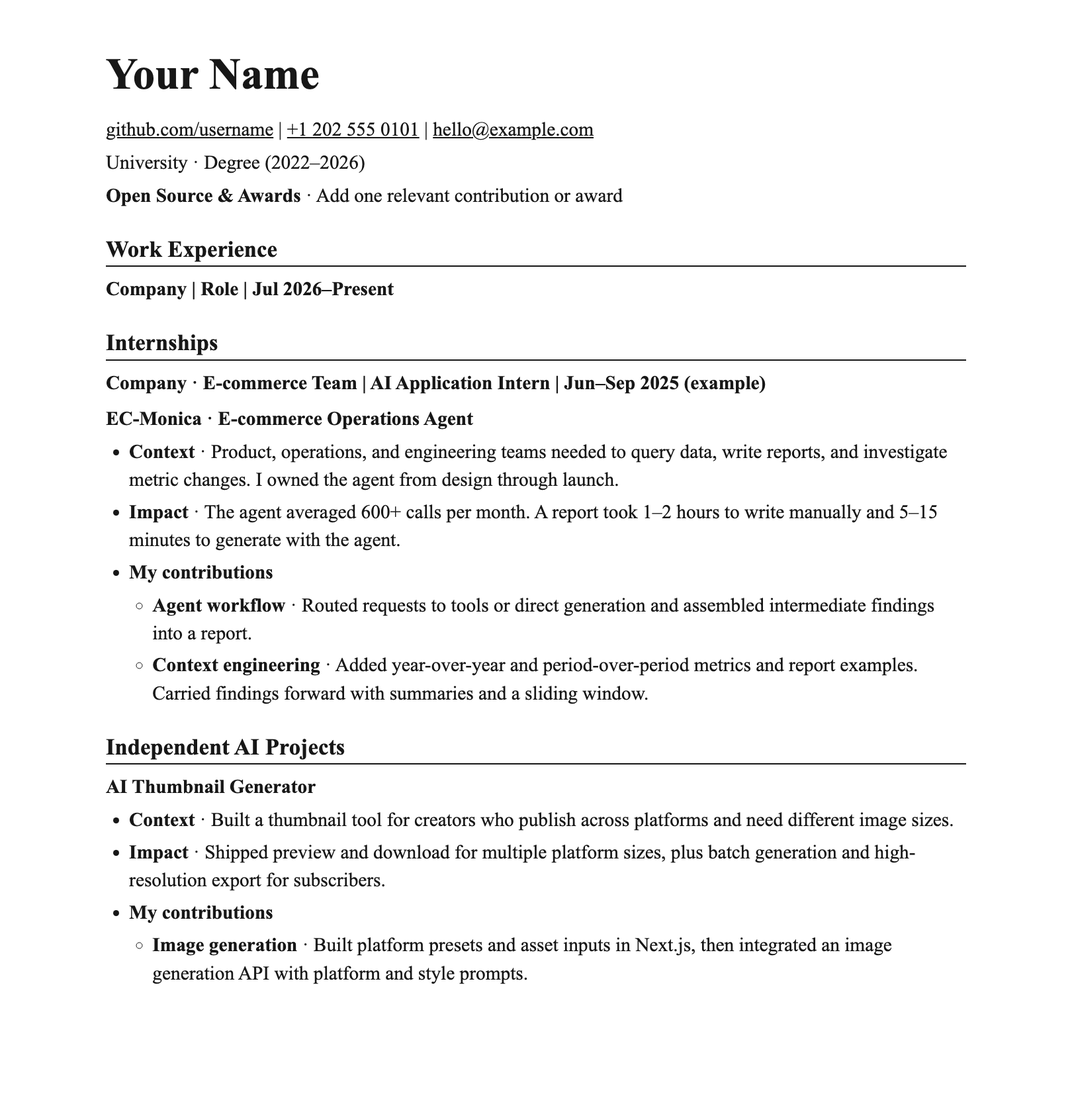
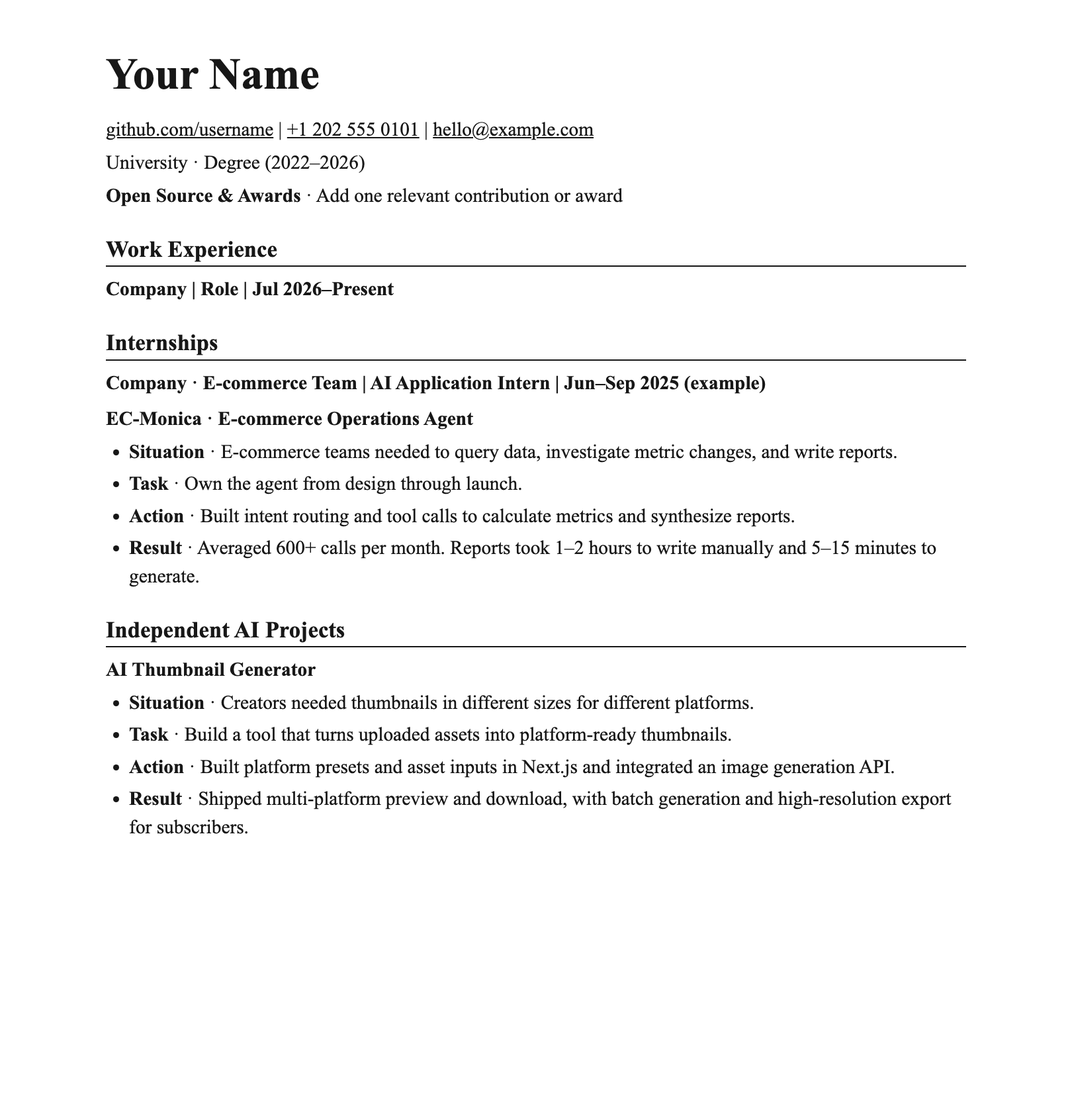
Require four separate STAR lines for every resume project

Changed region(s): [[0.0926, 0.4024, 0.8951, 0.8976]]

diff --git a/skills/resume-engineering/templates/resume.tex b/skills/resume-engineering/templates/resume.tex
@@ -21,17 +21,29 @@
 \textbf{公司 · 岗位} \hfill YYYY.MM--至今\par
 \textbf{项目名称 · 项目角色}
 \begin{itemize}
-  \item \textbf{背景}：服务对象、业务问题与目标。
-  \item \textbf{指标与效果}：写已验证的交付、采用或结果，说明统计口径。
-  \item \textbf{我的职责}：说明本人承担的交付范围，用关键机制与结果支撑。
+  \item \textbf{情境}：服务对象遇到了什么问题。
+  \item \textbf{任务}：项目目标与本人负责的交付。
+  \item \textbf{行动}：本人做了什么，用了什么方法。
+  \item \textbf{结果}：已验证的交付、采纳或指标。
 \end{itemize}
 
 \section*{实习经历}
 \textbf{公司 · 岗位} \hfill YYYY.MM--YYYY.MM\par
-用简短要点写相关项目与个人贡献。
+\textbf{项目名称}
+\begin{itemize}
+  \item \textbf{情境}：服务对象遇到了什么问题。
+  \item \textbf{任务}：项目目标与本人负责的交付。
+  \item \textbf{行动}：本人做了什么，用了什么方法。
+  \item \textbf{结果}：已验证的交付、采纳或指标。
+\end{itemize}
 
 \section*{AI 创业／独立项目}
-\textbf{项目名称 · 项目角色} \hfill YYYY.MM--YYYY.MM\par
-写清面向的用户、已完成的功能和实际效果。
+\textbf{项目名称 · 项目角色} \hfill YYYY.MM--YYYY.MM
+\begin{itemize}
+  \item \textbf{情境}：服务对象遇到了什么问题。
+  \item \textbf{任务}：项目目标与本人负责的交付。
+  \item \textbf{行动}：本人做了什么，用了什么方法。
+  \item \textbf{结果}：已验证的交付、采纳或指标。
+\end{itemize}
 
 \end{document}

diff --git a/skills/resume-engineering/references/workflow.en.md b/skills/resume-engineering/references/workflow.en.md
@@ -1,44 +1,23 @@
 # STAR workflow for AI resumes
 
-Apply STAR to every project, including work, internships, open-source contributions, and independent projects. The final resume can combine the four elements into short bullets.
+Apply STAR to every project, including work, internships, open-source contributions, and independent projects. Use four separate labeled bullets per project, in STAR order.
 
 1. Extract **Situation** (users, problem, constraints), **Task** (goal and personal ownership), **Action** (decisions, mechanisms, and tradeoffs), and **Result** (verified outcome, scope, and attribution). Use the supplied material as the source of truth. If the user supplies only a job description, ask up to three focused questions to gather relevant STAR material.
 2. Choose and order projects by the work the target role actually does. Research and training may emphasize baselines and ablations. Application and platform roles may emphasize workflows, reliability, latency, or cost. Data, safety, and evaluation may emphasize dataset coverage, scoring criteria, and verified findings. Product, design, governance, and customer-facing roles may emphasize user research, acceptance criteria, adoption, or completed remediation.
-3. Draft **Context and goal**, then **My contributions**. Start each contribution with a short heading and describe one decision or delivery. Explain the mechanism or workflow when it clarifies the contribution. Use ownership verbs that reflect the candidate's actual responsibility. For a short resume, combine context, action, and result in a single bullet.
+3. Draft four separate lines labeled **Situation**, **Task**, **Action**, and **Result**. Use the action line to explain the candidate’s most important decision or contribution. Shorten individual lines for a one-page resume.
 4. Keep metrics tied to the known baseline, unit, measurement window, and environment. Distinguish offline evaluation, pilot outcomes, and production results. Attribute team results explicitly. Use qualitative evidence when a number is unavailable, and use causal wording only when the evidence supports it.
 5. Deliver the copy-ready text first. Keep unresolved facts outside the resume and mention up to three only when they affect the wording. Remove confidential details from public-facing drafts.
 
-## AI Thumbnail Generator
-
-- **Situation** — Creators publishing across multiple platforms needed thumbnails in different sizes.
-- **Task** — Build a tool that takes creator assets and a platform choice through to preview and download.
-- **Action** — Build platform presets and subject and style-reference inputs in Next.js. Turn platform context and style keywords into prompts and integrate an image generation API.
-- **Result** — The tool supports thumbnail generation and download in multiple platform sizes. Subscribers can generate in batches and export high-resolution images.
-
-**AI Thumbnail Generator**
-
-- **Context and goal** — Built a thumbnail generation workflow for creators publishing across multiple platforms, from selecting a platform size and submitting assets to generating a cover.
-- **My contributions · Image generation** — Implemented platform presets, subject uploads, and style-reference inputs in Next.js. Combined platform context and style keywords into prompts and integrated an image generation API for previewing and downloading thumbnails in multiple sizes.
-- **My contributions · Subscription features** — Built a free usage allowance and a paid subscription flow with batch generation and high-resolution export.
-
-The source describes shipped capabilities and provides no measured change in click-through rate.
-
 ## EC-Monica · E-commerce Operations Agent
 
-### STAR notes
+- **Situation** — E-commerce product, operations, and engineering teams needed to query business data, investigate metric changes, and prepare reports.
+- **Task** — Own the agent from design through launch and support data analysis, reporting, attribution, and requirements interpretation.
+- **Action** — Built intent routing and tool execution for data queries, year-over-year and period-over-period calculations, and iterative report synthesis. Added retry and fallback handling, report examples, and context summaries.
+- **Result** — Averaged 600+ calls per month after launch. About 55% were reporting tasks and 45% were requirements or attribution tasks. One report took 1–2 hours to write manually and 5–15 minutes to generate with the agent.
 
-- **Situation** — E-commerce product, operations, and engineering teams needed to interpret experiments and dashboards, write reports, investigate metric changes, and analyze requirements.
-- **Task** — Own EC-Monica from initial design through launch.
-- **Action** — Route requests by intent, register tools through configuration, calculate year-over-year and period-over-period metrics in Python, and synthesize intermediate findings into reports. Add tool failure handling and use examples, summaries, and a sliding window to guide multi-turn analysis.
-- **Result** — The resume records 600+ calls per month on average. About 55% were reporting tasks and 45% were requirements or attribution tasks. A single report took 1–2 hours to write manually and 5–15 minutes to generate with the agent. The source does not specify the observation period or sample size.
+## AI Thumbnail Generator
 
-### Resume-ready entry
-
-**EC-Monica · E-commerce Operations Agent**
-
-- **Business context** — Built an agent for e-commerce product, operations, and engineering teams to analyze A/B experiments and dashboards, produce reports, investigate metric changes, and interpret requirements.
-- **Adoption and impact** — Averaged 600+ calls per month after launch. About 55% were reporting tasks and 45% were requirements or attribution tasks. A single report took 1–2 hours to write manually and 5–15 minutes to generate with the agent.
-- **My contributions** — Owned the project from design through launch.
-  - **Agentic workflow** — Routed requests by intent to tool calls or direct generation. Executed tools iteratively, produced intermediate findings, and synthesized reports. Added timeouts, retries, error classification, and a direct-generation fallback.
-  - **Tool registry** — Registered function schemas through configuration across user behavior, GMV, acquisition channels, and product analysis. Added analysis tools by extending the configuration.
-  - **Context engineering** — Calculated year-over-year and period-over-period metrics in Python, added report examples and operations templates, and carried forward key findings with summaries and a sliding window.
+- **Situation** — Creators publishing across platforms needed thumbnails in different sizes.
+- **Task** — Build a tool that takes a platform choice and creator assets and produces a ready-to-use thumbnail.
+- **Action** — Implemented platform size presets and subject and style inputs in Next.js. Integrated an image generation API with platform and style prompts, and built free usage and subscription flows.
+- **Result** — Shipped thumbnail generation, preview, and download for multiple platforms, with batch generation and high-resolution export for subscribers.

diff --git a/skills/resume-engineering/SKILL.md b/skills/resume-engineering/SKILL.md
@@ -17,19 +17,18 @@ license: MIT
 - 用户要求从零写整份简历、改整份简历或调整栏目顺序时，读取 [整份简历结构](references/resume-structure.md)。先整理页首、工作、实习、独立项目和适用的其他栏目，再为其中的项目写 STAR。交付完整成稿。
 - 用户要求 LaTeX、PDF 或论文风格排版时，按结构说明选用 [单栏 LaTeX 模板](templates/resume.tex)。首选一页、黑白和清晰标题层级。排版要求本身无需把聊天正文转换成 LaTeX，除非用户需要源文件或 PDF。
 
-## 每个项目都用 STAR
+## 每个项目写成四行 STAR
 
-写整份简历、重组旧稿或只改一段时，对成稿里的每个项目单独核对 S、T、A、R。工作、实习、开源和独立项目都适用。背景和目标交代 S、T，职责写 A，指标、交付或验证写 R。短版可以合并成一两条，但仍须让读者看懂这四项。无需把 S、T、A、R 字母写进投递稿。
+无论是整份简历还是单个项目，成稿中的每个项目都用以下四行，顺序固定。工作、实习、开源和独立项目都适用。一页稿可以缩短每行。
 
-素材没有量化数据时，从已交付功能、采纳记录或验证发现提取 R。连实际交付或验证都无法确认时，先在稿外列出缺少的事实，有其他证据充分的项目时优先采用。用户明确要求保留时，按已经确认的阶段写。
+- **情境（S）**：说明服务对象和实际问题，必要时补充约束。
+- **任务（T）**：说明项目目标和本人承担的交付。
+- **行动（A）**：用一到两句话说明本人做了什么、用了什么关键办法。
+- **结果（R）**：写可核对的交付、采纳或验证结果。涉及指标时保留基线、单位、环境和已知的统计范围。注明团队成果的归属。
 
-## 从素材到简历
+英文使用 **Situation / Task / Action / Result**，同样各占一行。Markdown 用四条列表项，HTML 用四个列表项，LaTeX 用四个 `item`。正文里的项目只展示一组 STAR。只有 JD 时，围绕实际职责提出最多三个取材问题。缺乏量化数据时可用已实现的功能或验证发现。结果尚未核实时写清已确认的阶段，将待补资料放在成稿外。
 
-1. **用 STAR 整理素材。** 从旧简历、项目笔记和指定资料提取 S（Situation，服务对象、问题和约束）、T（Task，项目目标与个人责任边界）、A（Action，个人动作、关键机制与取舍）和 R（Result，已验证的结果、范围和归属）。每个事实能回指素材；有冲突时用共同支持的事实，把关键疑点列在待确认项。只改一条时直接用现有素材建 STAR 记录，岗位信息可选。只有 JD 时，围绕岗位实际交付提出最多三个 STAR 取材问题。
-2. **先写项目总览。** 标题写清项目或能力与候选人的角色。用「背景与目标」合并 S 和 T，交代服务对象、现存瓶颈及要改善的事。有可信成效时，可紧接背景写一条项目级结果，让读者先知道规模或影响；它在下面无需再出现一次。
-3. **按岗位交付写「我的职责」。** 把 A 写成可扫读的技术、研究或业务链路。每条选一个能解释的决策或交付，开头用可扫读的模块短标题，正文写个人动作和关键机制。用一条链路展示输入、处理与输出，或点出关键约束与取舍。重试、降级、状态同步、兼容性等细节只有在能说明难点时才保留。角色词与实际范围对应：只有明确承担范围内的决策和交付才写「主导」，独立交付一个模块可写「独立实现」。团队项目的「从 0 到 1」标清个人负责的层级。
-4. **写清结果口径。** 把 R 放在读者最容易判断归属的位置。个人成果可紧跟对应动作，团队成效可在项目总览注明。STAR 字母留在素材层，成稿使用自然小标题或简历要点。优先用已有的实验、基准测量、上线数据或采纳证据。保留指标的基线、单位、适用范围，以及素材已有的时间窗口或分母。区分计划与已交付、实验与生产、团队结果与个人动作。只有证据支持归因时才用「使」「带来」等因果措辞。暂无数字时，写已上线能力、用户反馈或其他可观察变化。删除无法证实的指标、因果和空泛评价，待确认内容留在正文之外。
-5. **分开素材库和投递稿。** 在长版保存可追问的技术细节与暂时删掉的经历，投递稿按岗位重排，优先删掉重复信息、低相关经历和无上下文的框架清单。仍在规划的项目只有在已完成的设计或验证能体现岗位能力时才纳入投递稿，并标明阶段。相关的开源经历可保留贡献范围和公开证据。公开链接仅使用用户提供或授权的内容。按需读 [改写示例](references/examples.md)。
+见 [项目示例](references/examples.md)。
 
 ## AI 岗位适配
 

diff --git a/README.en.md b/README.en.md
@@ -40,7 +40,7 @@ Start a new session and ask your agent to use `resume-engineering`.
 - **Action** — Use short headings for key contributions. Describe what you did, how it worked, and the tradeoffs that mattered.
 - **Result** — Attach verified outcomes to the relevant action. Attribute team outcomes to the team. When metrics are unavailable, describe a delivered capability, documented adoption, or a validated finding.
 
-A project entry can open with **Context and goal**, then list **My contributions**, with outcomes attached where they can be attributed. For a one-page resume, compress those elements into a bullet.
+Write each project as four labeled lines in this order: **Situation**, **Task**, **Action**, and **Result**. Keep the lines short for a one-page resume.
 
 Use OfferHunter for research, training, applications, infrastructure, data, evaluation, safety, product, design, governance, and customer-facing deployment. The target role guides which experiences to highlight.
 
@@ -122,14 +122,10 @@ Copy the code into `resume.html`, open it in a browser, and use the print menu t
       <article class="resume-project">
         <h4>EC-Monica · E-commerce Operations Agent</h4>
         <ul>
-          <li><strong>Context</strong> · Product, operations, and engineering teams needed to query data, write reports, and investigate metric changes. I owned the agent from design through launch.</li>
-          <li><strong>Impact</strong> · The agent averaged 600+ calls per month. A report took 1–2 hours to write manually and 5–15 minutes to generate with the agent.</li>
-          <li><strong>My contributions</strong>
-            <ul>
-            <li><strong>Agent workflow</strong> · Routed requests to tools or direct generation and assembled intermediate findings into a report.</li>
-            <li><strong>Context engineering</strong> · Added year-over-year and period-over-period metrics and report examples. Carried findings forward with summaries and a sliding window.</li>
-            </ul>
-          </li>
+          <li><strong>Situation</strong> · E-commerce teams needed to query data, investigate metric changes, and write reports.</li>
+          <li><strong>Task</strong> · Own the agent from design through launch.</li>
+          <li><strong>Action</strong> · Built intent routing and tool calls to calculate metrics and synthesize reports.</li>
+          <li><strong>Result</strong> · Averaged 600+ calls per month. Reports took 1–2 hours to write manually and 5–15 minutes to generate.</li>
         </ul>
       </article>
     </section>
@@ -139,13 +135,10 @@ Copy the code into `resume.html`, open it in a browser, and use the print menu t
       <article class="resume-project">
         <h4>AI Thumbnail Generator</h4>
         <ul>
-          <li><strong>Context</strong> · Built a thumbnail tool for creators who publish across platforms and need different image sizes.</li>
-          <li><strong>Impact</strong> · Shipped preview and download for multiple platform sizes, plus batch generation and high-resolution export for subscribers.</li>
-          <li><strong>My contributions</strong>
-            <ul>
-            <li><strong>Image generation</strong> · Built platform presets and asset inputs in Next.js, then integrated an image generation API with platform and style prompts.</li>
-            </ul>
-          </li>
+          <li><strong>Situation</strong> · Creators needed thumbnails in different sizes for different platforms.</li>
+          <li><strong>Task</strong> · Build a tool that turns uploaded assets into platform-ready thumbnails.</li>
+          <li><strong>Action</strong> · Built platform presets and asset inputs in Next.js and integrated an image generation API.</li>
+          <li><strong>Result</strong> · Shipped multi-platform preview and download, with batch generation and high-resolution export for subscribers.</li>
         </ul>
       </article>
     </section>
@@ -164,7 +157,7 @@ Yes. Start with an existing resume or project notes and prioritize entries with 
 
 ### How do I use STAR on a one-page resume?
 
-Compress the situation and task into a short clause, then describe the action you took and the verified result. Attribute team outcomes. A shipped capability, documented adoption, or validated finding can also show impact.
+Write four brief lines per project: Situation, Task, Action, and Result. Attribute team outcomes. A shipped capability, documented adoption, or validated finding can also show impact.
 
 ### How do I export a resume to PDF?
 

diff --git a/skills/resume-engineering/references/examples.md b/skills/resume-engineering/references/examples.md
@@ -1,34 +1,15 @@
 # 项目经历怎么写
 
-## AI 封面图生成工具
-
-### STAR 拆解
-
-- **S · 情境**：多平台内容创作者需要按不同平台的尺寸制作封面。
-- **T · 任务**：搭建生成工具，让创作者选平台、提交素材后即可预览和下载。
-- **A · 行动**：用 Next.js 实现平台尺寸预设、主体上传与风格参考图输入，将平台场景和风格关键词编入提示词，接入图像生成 API。
-- **R · 结果**：工具支持生成并下载适配多个平台尺寸的封面，付费用户可批量生成和导出高清图。
-
-### 简历写法
-
-- **背景与目标**：为在多个平台发布内容的创作者搭建封面图工具。创作者选好平台、上传素材，就能生成符合平台尺寸的封面。
-- **指标与效果**：工具已支持多平台封面生成、预览和下载，订阅用户还可以批量生成并导出高清图。
-- **我的职责**：用 Next.js 实现尺寸预设、主体上传和风格参考图输入。根据平台场景和风格要求组织提示词，再调用图像生成 API。搭建免费额度和订阅流程。
-
 ## EC-Monica 电商产运 Agent
 
-### STAR 拆解
+- **情境**：电商产品、运营和研发需要查业务数据、分析指标波动的原因，并整理成报告。
+- **任务**：作为项目负责人，从零搭建并上线电商产运 Agent，支持查数、报告生成、归因和需求文档解析。
+- **行动**：实现意图识别和工具路由，让 Agent 按需查数、计算同比与环比，并逐轮汇总结论。加入调用重试和降级，用业务范文和摘要指导报告生成。
+- **结果**：上线后月均调用 600+ 次，其中约 55% 为报告任务，约 45% 为需求与归因解析。单次分析报告原先人工编写需 1–2 小时，使用 Agent 生成需 5–15 分钟。
 
-- **S · 情境**：电商产品、运营和研发需要查业务数据、判断指标波动的原因，并整理成报告。
-- **T · 任务**：从零设计并落地可处理这些任务的电商产运 Agent。
-- **A · 行动**：实现任务路由、业务工具注册和上下文管理，让 Agent 能从取数逐步推进到生成报告。
-- **R · 结果**：用上线调用量、任务分布和单次报告耗时说明实际使用情况。原稿未提供统计周期或样本量。
+## AI 封面图生成工具
 
-### 简历写法
-
-- **背景**：为产品、运营、研发提供电商业务 Agent，支持数据分析与报告生成、业务归因与需求文档解析，缩短业务分析和报告编写所需时间。
-- **指标与效果**：上线后月均调用 600+ 次，报告类任务占比约 55%，需求与归因解析类任务占比约 45%。单次分析报告原先人工编写需 1–2 小时，使用 Agent 生成需 5–15 分钟。
-- **我的职责**：作为项目负责人，从零设计并上线这套 Agent。
-  - **Agentic Workflow**：先判断用户要查数还是直接生成内容。需要查数时，逐轮调用工具、整理阶段结论，最后汇总成报告。工具层会区分错误类型，遇到超时可以重试，调用仍失败时切换到直接生成。
-  - **Tool Registry**：通过配置动态注册 FunctionSchema，统一管理用户行为、GMV、渠道和商品四类分析工具。新增分析维度时可通过扩展配置接入工具。
-  - **Context Engineering**：用 Python 计算同比、环比，再将结果写入模型上下文。把业务范文和运营分析模板作为 Few-shot 样例，引导报告格式。多轮分析中对工具返回的内容做摘要，并用滑动窗口保留近期观察和前轮结论。
+- **情境**：创作者在多个平台发布内容时，需要分别制作符合各平台尺寸的封面。
+- **任务**：搭建封面图生成工具，让创作者选择平台、上传素材，生成可直接使用的封面。
+- **行动**：用 Next.js 实现平台尺寸预设、主体上传和风格参考图输入。按平台和风格组织提示词，接入图像生成 API，并实现免费额度和订阅。
+- **结果**：工具支持多平台封面生成、预览和下载，订阅用户可批量生成并导出高清图。

diff --git a/README.md b/README.md
@@ -42,7 +42,7 @@ mkdir -p .grok/skills && cp -R OfferHunter/skills/resume-engineering .grok/skill
 - **A · 行动**：你具体做了什么？关键方案是怎么实现的？
 - **R · 结果**：最后交付了什么？有哪些上线数据、使用反馈或验证结果？
 
-正文可以沿用「背景与目标 → 指标与效果 → 我的职责」，也可以把四个要素压进一两条简历要点。没有量化指标时，用实际交付、采纳情况或已完成的验证来写结果。有待确认的事实放在稿外。
+正文里的每个项目都按「情境、任务、行动、结果」分四行写，一页简历也采用这个顺序。没有量化指标时，用实际交付、采纳情况或已完成的验证来写结果。有待确认的事实放在稿外。
 
 ## 可以这样用
 
@@ -124,14 +124,10 @@ mkdir -p .grok/skills && cp -R OfferHunter/skills/resume-engineering .grok/skill
       <article class="resume-project">
         <h4>EC-Monica 电商产运 Agent</h4>
         <ul>
-          <li><strong>背景</strong> · 产品、运营和研发需要查数、写报告和分析业务波动。作为项目负责人，我从零搭建了电商产运 Agent。</li>
-          <li><strong>指标与效果</strong> · 上线后月均调用 600+ 次。单次分析报告原先人工编写需 1–2 小时，使用 Agent 生成需 5–15 分钟。</li>
-          <li><strong>我的职责</strong>
-            <ul>
-            <li><strong>Agent 工作流</strong> · 根据用户意图选择工具或直接生成，逐轮整理查询结论并汇总成报告。</li>
-            <li><strong>上下文工程</strong> · 将同比、环比数据和业务范文加入模型上下文，用摘要和滑动窗口保留前轮结论。</li>
-            </ul>
-          </li>
+          <li><strong>情境</strong> · 电商团队需要查数、分析指标波动并撰写报告。</li>
+          <li><strong>任务</strong> · 从零搭建并上线电商产运 Agent。</li>
+          <li><strong>行动</strong> · 实现意图路由与工具调用，计算同比和环比并汇总报告。</li>
+          <li><strong>结果</strong> · 月均调用 600+ 次。单次报告人工编写需 1–2 小时，使用 Agent 生成需 5–15 分钟。</li>
         </ul>
       </article>
     </section>
@@ -141,13 +137,10 @@ mkdir -p .grok/skills && cp -R OfferHunter/skills/resume-engineering .grok/skill
       <article class="resume-project">
         <h4>AI 封面图生成工具</h4>
         <ul>
-          <li><strong>背景</strong> · 为多平台创作者搭建封面图工具，让他们提交素材后生成符合平台尺寸的封面。</li>
-          <li><strong>指标与效果</strong> · 已支持多平台封面预览和下载，订阅用户可以批量生成并导出高清图。</li>
-          <li><strong>我的职责</strong>
-            <ul>
-            <li><strong>生成流程</strong> · 用 Next.js 实现平台尺寸预设和素材输入，按平台与风格组织提示词并调用图像生成 API。</li>
-            </ul>
-          </li>
+          <li><strong>情境</strong> · 多平台创作者需要符合各平台尺寸的封面。</li>
+          <li><strong>任务</strong> · 搭建可上传素材并生成封面的工具。</li>
+          <li><strong>行动</strong> · 用 Next.js 实现尺寸预设和素材输入，接入图像生成 API。</li>
+          <li><strong>结果</strong> · 已支持多平台封面预览和下载，订阅用户可批量生成和导出高清图。</li>
         </ul>
       </article>
     </section>
@@ -166,7 +159,7 @@ mkdir -p .grok/skills && cp -R OfferHunter/skills/resume-engineering .grok/skill
 
 ### STAR 法则怎么用在一页简历里？
 
-把情境和任务压成一句话，用动作写清个人贡献，再接上能核对的结果。团队数据写清归属。没有量化数据时，可以写已上线能力、实际采纳或验证发现。
+每个项目写四行，每行只留最需要读者知道的信息。团队数据写清归属。没有量化数据时，可以写已上线能力、实际采纳或验证发现。
 
 ### HTML 或 LaTeX 简历如何导出 PDF？
 

diff --git a/skills/resume-engineering/references/resume-structure.md b/skills/resume-engineering/references/resume-structure.md
@@ -3,7 +3,7 @@
 沿用原简历的阅读顺序。
 
 1. **页首**。姓名下放一行联系方式和相关公开链接，随后用一行写学校、专业和毕业时间。开源身份、代表奖项或贡献高度相关时，可在页首加一行。熟练或资深候选人可把教育移到末尾。
-2. **工作经历**。按最近到最早排列。每段先写公司、岗位、时间，再在其下放本人参与的项目。项目标题写清交付对象或产品。背景、指标与效果、我的职责按这个顺序组织。只写能核对的指标。职责用短标题拆分，每条写一个关键动作和交付。篇幅紧张时，把背景压成半句，把结果接在对应动作后。
+2. **工作经历**。按最近到最早排列。每段先写公司、岗位、时间，再在其下放本人参与的项目。项目标题写清交付对象或产品。每个项目按「情境、任务、行动、结果」写四行。行动写本人做过的关键工作，结果使用可核对的指标、交付或验证。篇幅紧张时缩短每行。
 3. **实习经历**。沿用工作经历结构。没有正式工作经历时，实习可作为主栏目。相关的长期兼职和独立接单可按真实身份放在此处或单列。
 4. **AI 创业／独立项目**。放与目标岗位相关的完整项目，注明角色、交付阶段和可公开的演示或成果。避免与工作经历重复。
 5. **开源、研究与奖项**。页首用一行提示最相关的可信信号。需要展开时放到独立栏目，补上项目或论文名称、具体贡献、奖项和年份。技能栏按需添加，仅保留与目标工作直接相关且有素材支撑的能力。
@@ -16,4 +16,4 @@
 
 用户明确要 LaTeX 或 PDF 时，读取同目录 Skill 所链接的 LaTeX 模板。写入完整的可编译源文件，按正文或链接所在语境正确处理 LaTeX 特殊字符。用 XeLaTeX 编译，检查分页、溢出、中文字体、链接和文本复制。缺少编译环境时，交付源文件并说明 PDF 尚未生成。英文简历可将文档类改为 `article` 并翻译栏目名。
 
-For English resumes, use the same structure with **Work Experience**, **Internships**, **Independent AI Projects**, and optionally **Open Source, Research & Awards**. Within each project, use **Context**, **Impact**, and **Contributions** as space allows.
+For English resumes, use the same structure with **Work Experience**, **Internships**, **Independent AI Projects**, and optionally **Open Source, Research & Awards**. For each project, write four separate lines in this order: **Situation**, **Task**, **Action**, and **Result**.
